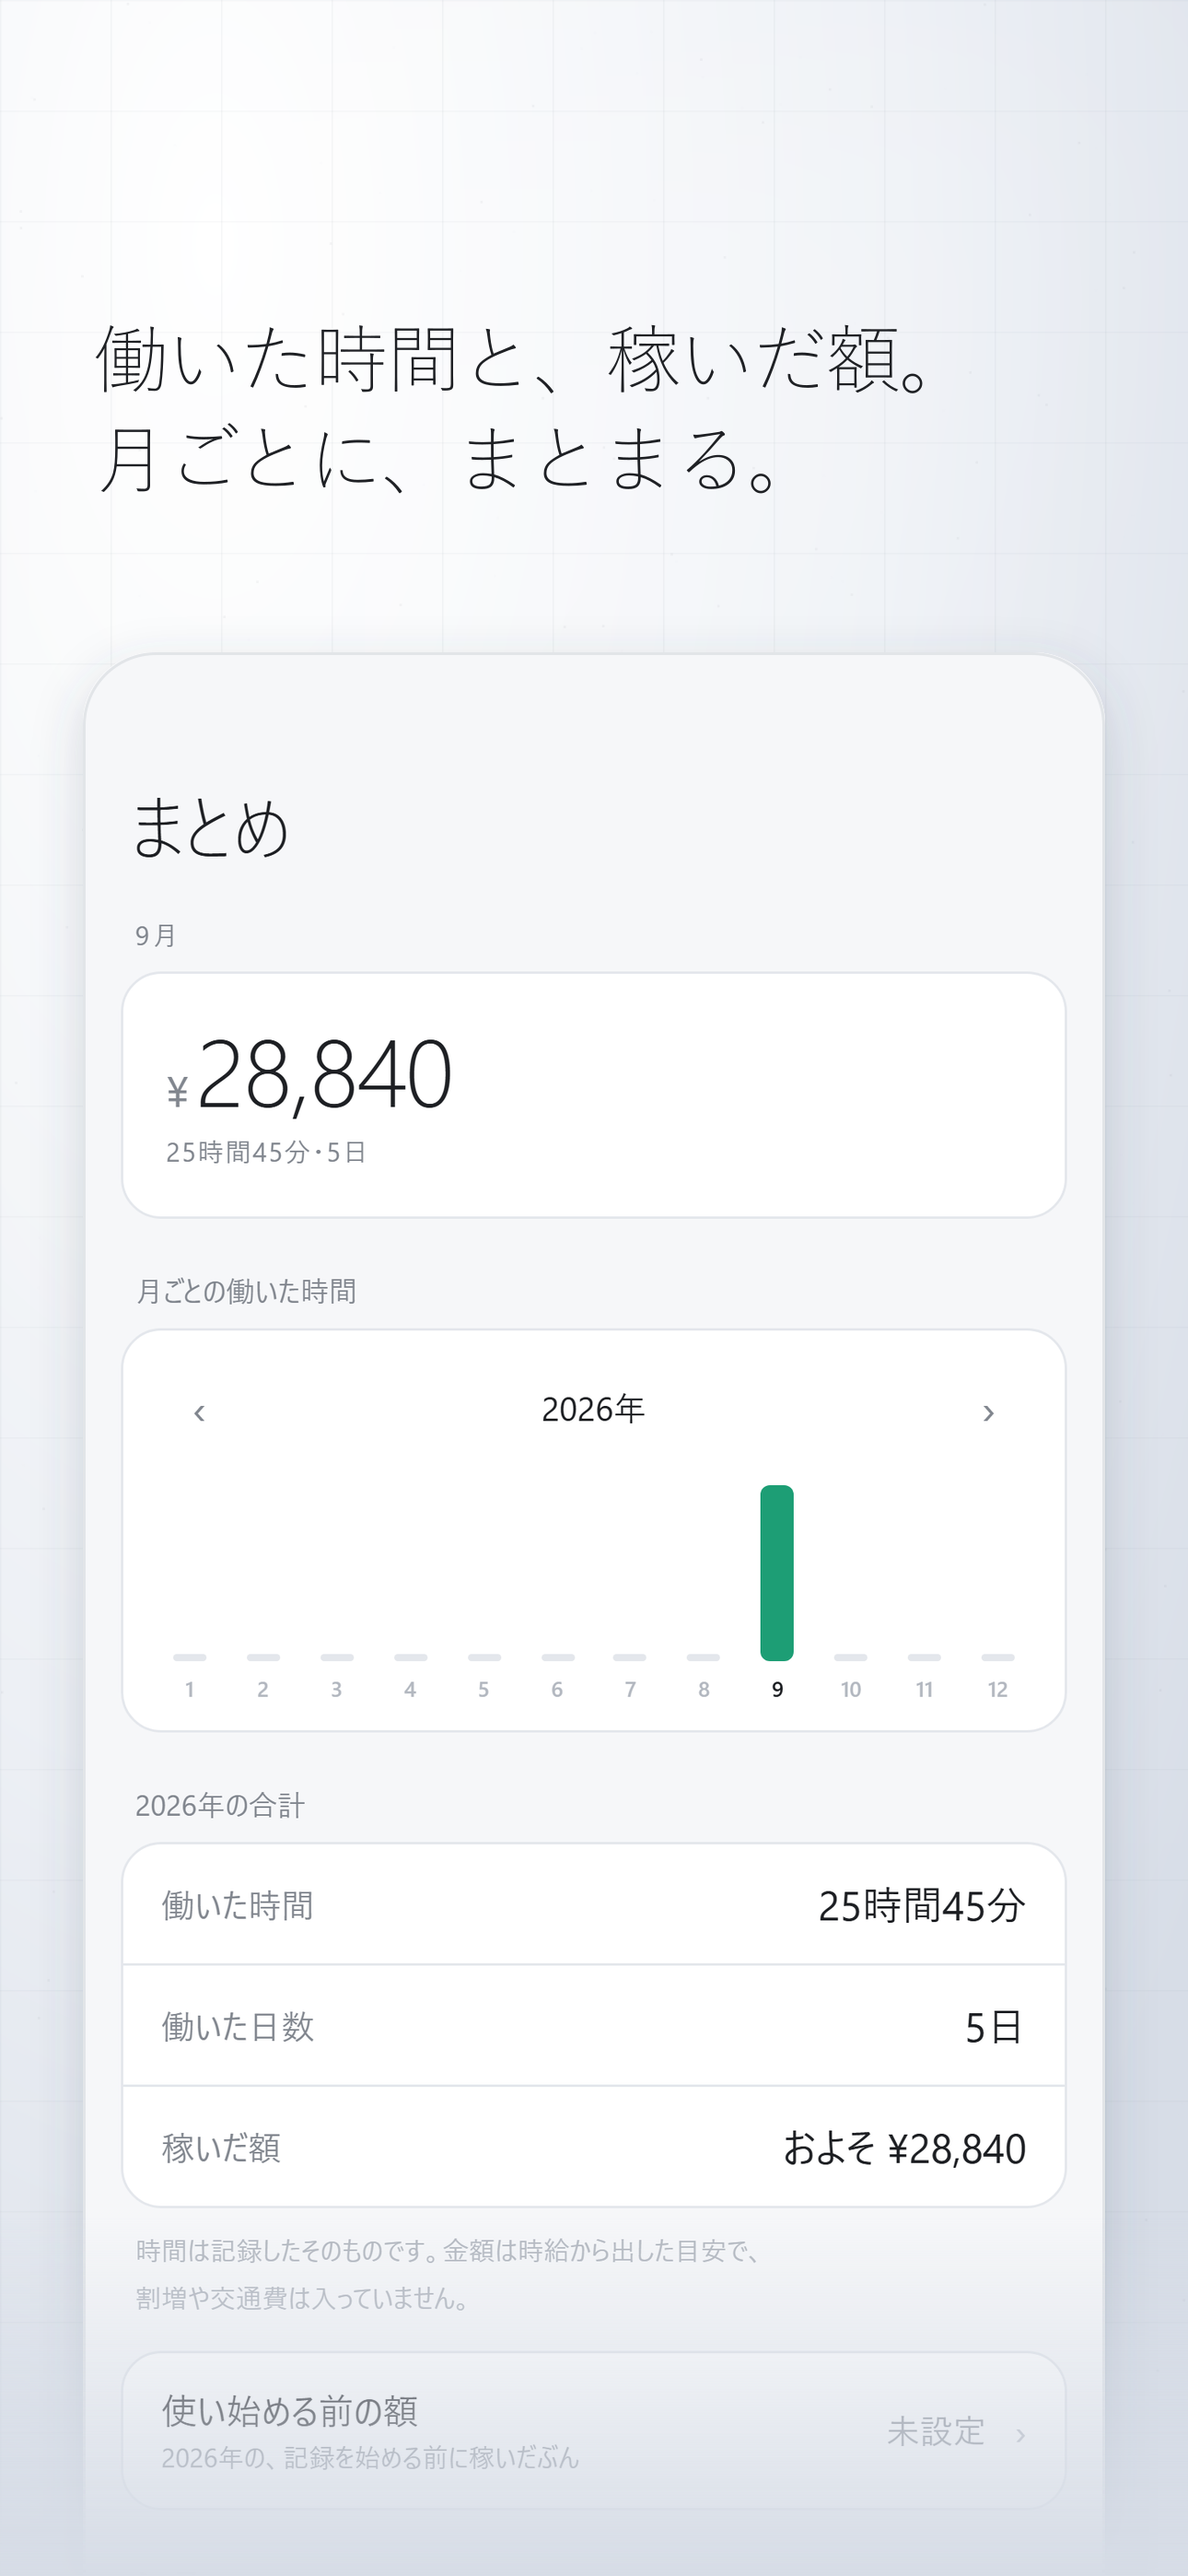
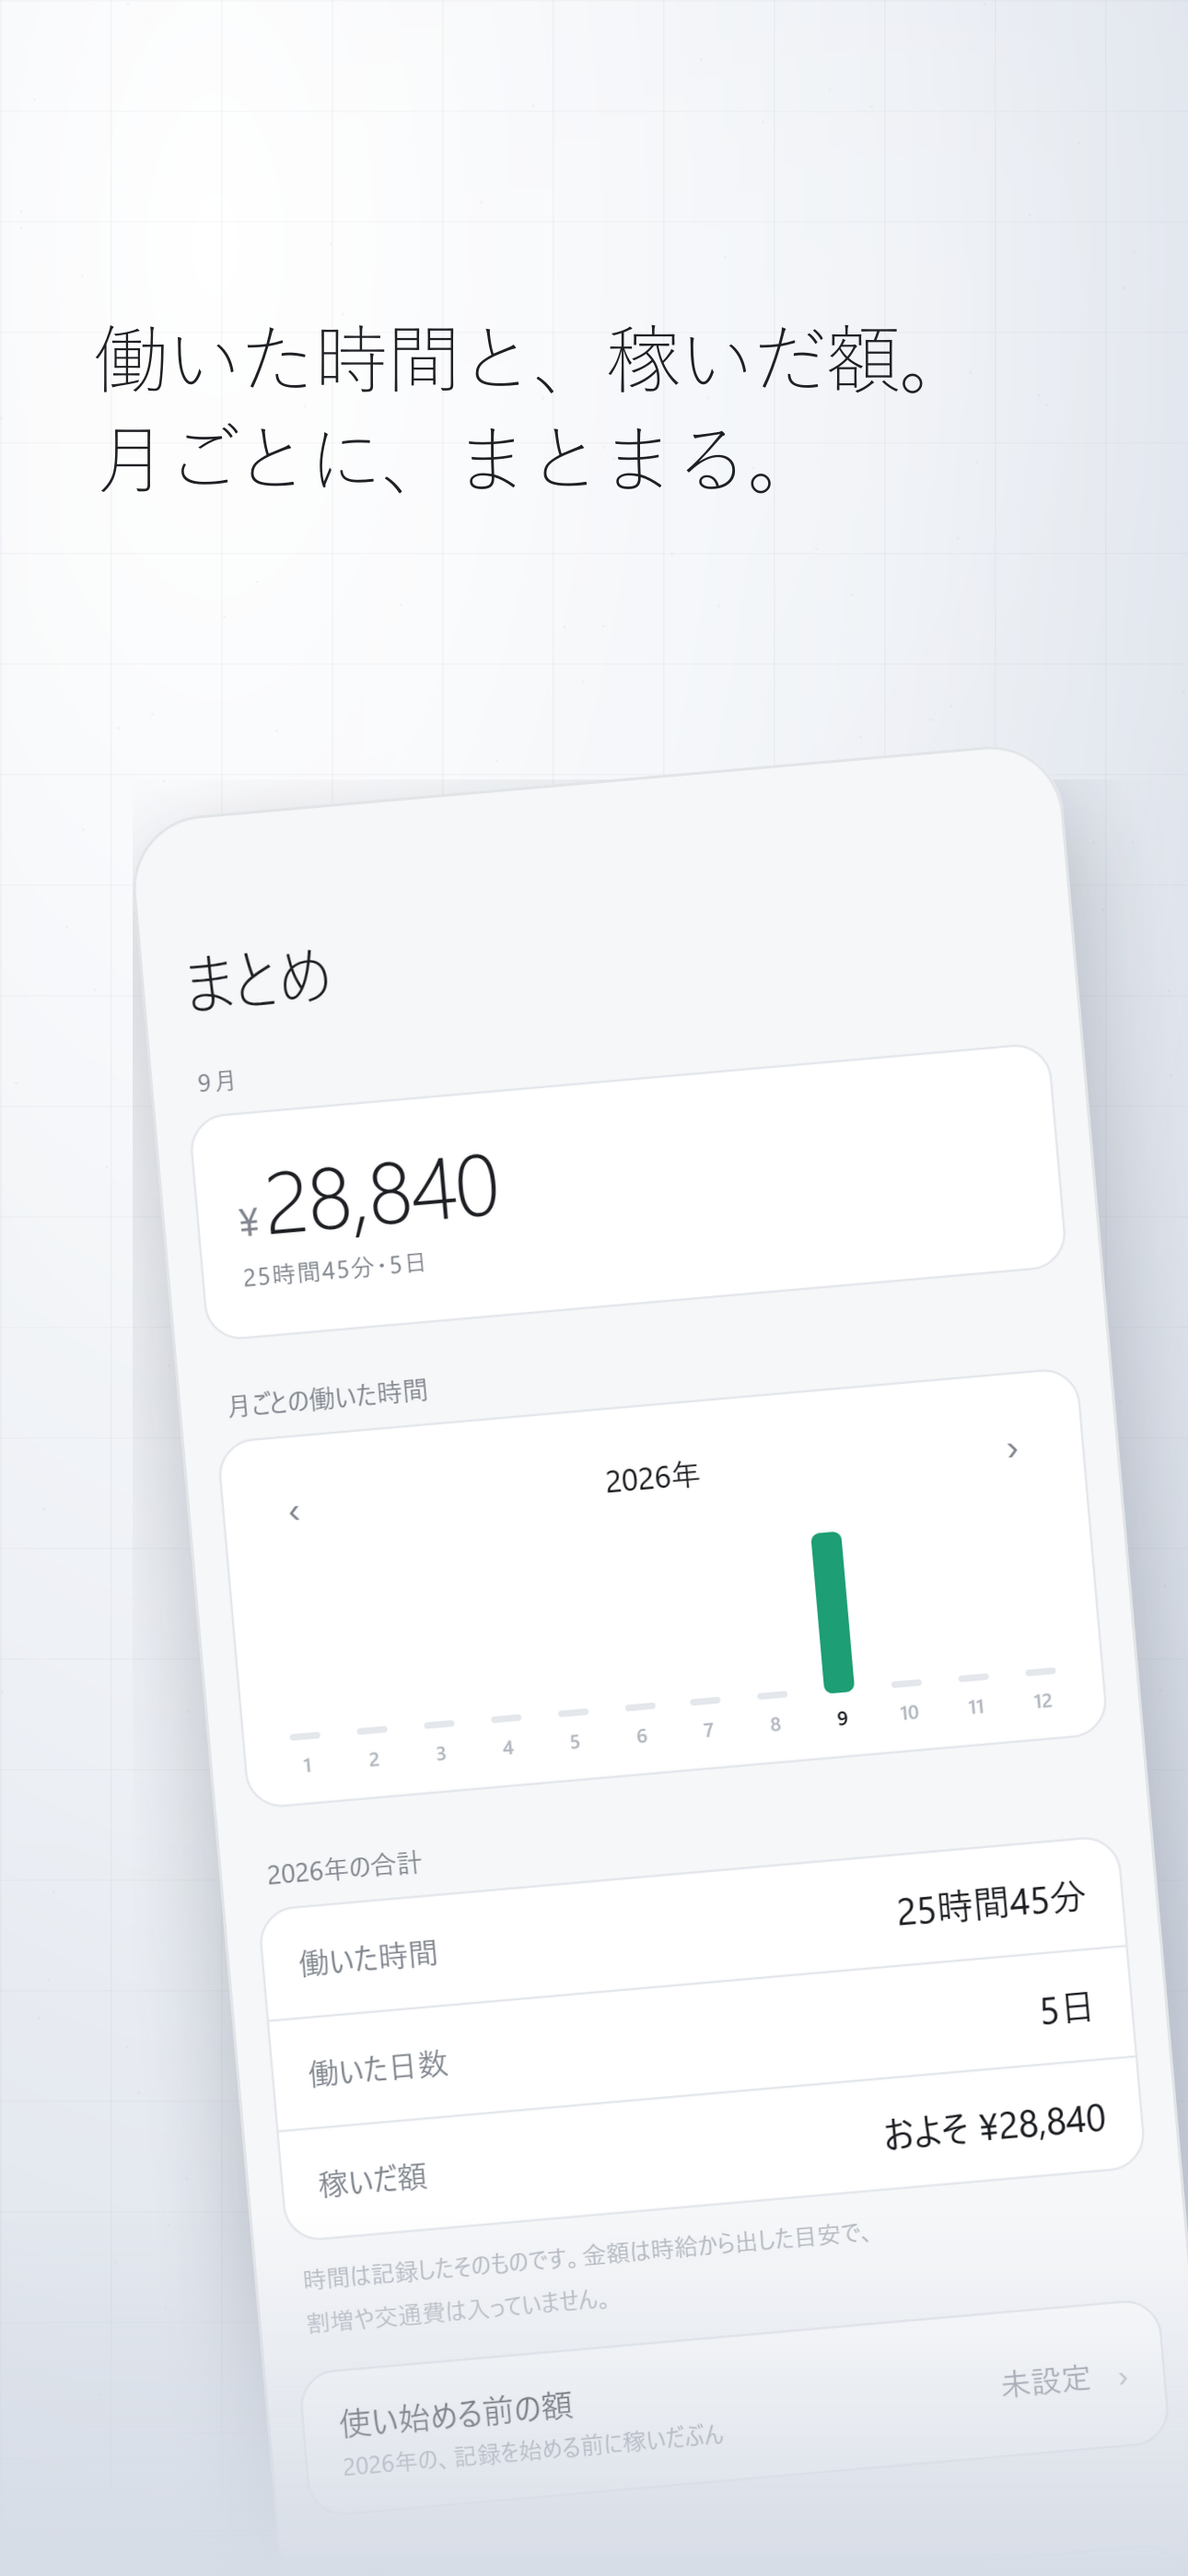
2枚目から板を傾けて、並びにリズムを付ける
真正面の板を5枚並べると「貼っただけ」に見える。1枚目は掴む役なので正面の
まま、2枚目から傾けた。向きは交互（−5 / +6 / −5 / +6）で、左右どちらへ
流すかも入れ替える。字の大きさも言葉も変えていない。

切れてもよいが、その画面の要点が残ることだけは確かめた。一度3枚目を右へ
流して「給料」のつまみを切ってしまい、見出しが指している証拠が消えた。
左へ流し直してある。

  1 正面        月表示ぜんぶ
  2 −5 内側     ダイアログが丸ごと見える
  3 +6 左へ流す  右上の「給料」のつまみが残る
  4 −5 内側     ¥28,840 が見える
  5 +6 右へ流す  ○の並びと「画像で送る」が残る

傾けた板の影は、四角い影を回しても形が合わない。板と同じ形の黒を作って
ぼかしている（shadowOf）。枠からはみ出す分は先に切る（place）——
sharp は枠より大きい画像を composite で受け取らない。

比べるのに使った道具は tools/store-style.cjs に残した。字を大きくする案・
地を紙にする案・拡大して重ねる案・言葉を減らす案も、そこで出せる。

diff --git a/store-assets/app-store-metadata.md b/store-assets/app-store-metadata.md
@@ -219,6 +219,13 @@ App Store に登録するのは、そこに見出しを載せた **`store-cards-
   アプリの地はその下まで続いている。**その地の色をそのまま上へ伸ばしている**
   ——白で塗ると継ぎ目が出るし、時計を描き足すと嘘になる
 - **板の下は地へ霞ませて終わらせる。** ぶつ切りは「切り忘れ」に見える
+- **1枚目だけ正面。2枚目から板を傾ける。** 真正面に5枚並べると「貼っただけ」に見える。
+  傾きは向きを交互にして（−5 / +6 / −5 / +6）、左右どちらへ流すかも入れ替える。
+  **切れてもよいが、その画面の要点が残ることだけは確かめる** —— 一度3枚目を右へ流して
+  「給料」のつまみを切ってしまい、見出しが指している証拠が消えた。左へ流し直した
+- 傾けた板の影は、**四角い影を回しても形が合わない**。板と同じ形の黒を作ってぼかす
+  （`shadowOf`）。枠からはみ出す分は先に切る（`place`）——
+  sharp は枠より大きい画像を `composite` で受け取らない
 - 色はアプリが実際に出しているものだけ。Lab で揃えた色（NEXT.md の B）は
   入れないと決めたので、宣伝にも出さない
 
